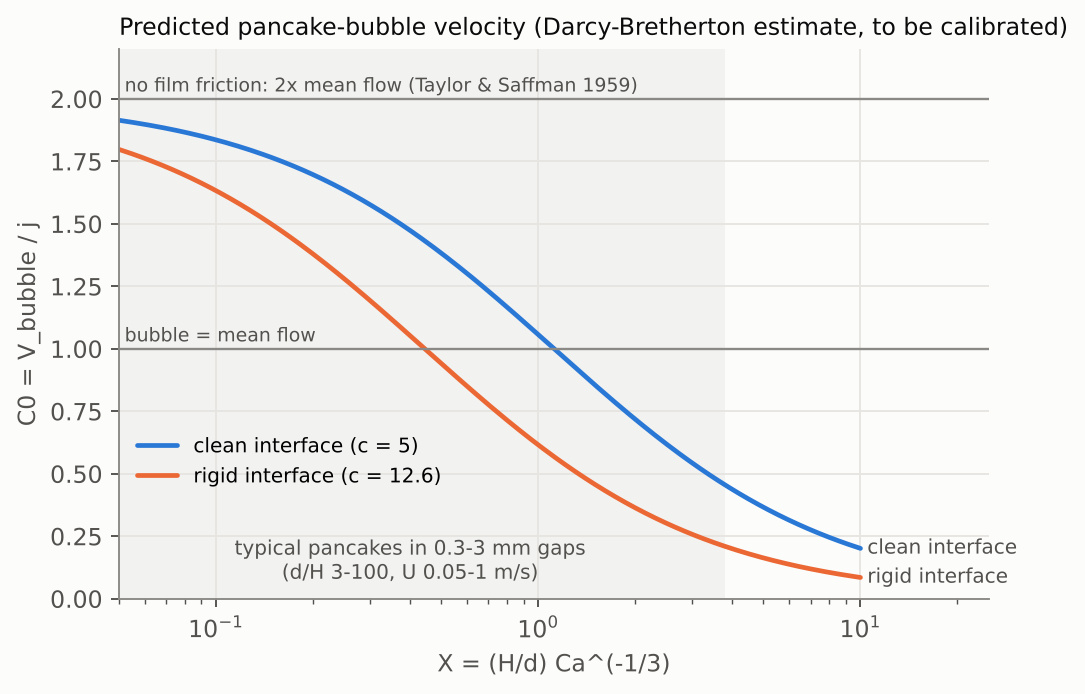
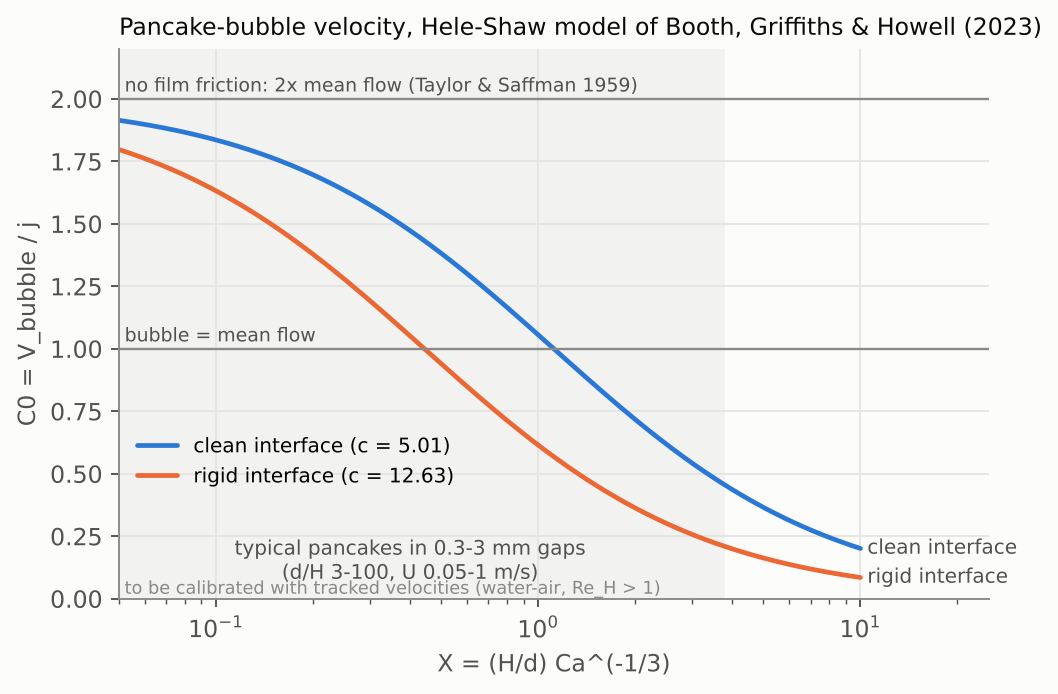
docs: 크기 추정 5.3 숫자 갱신, C0 그림에 식 출처(Booth 2023)와 확인된 계수 표기
Claude-Session: https://claude.ai/code/session_01QFVWo3BPZ98Eh7jXYmYxkN

diff --git a/docs/research/fig/src/figs.py b/docs/research/fig/src/figs.py
@@ -56,7 +56,7 @@ X=np.logspace(np.log10(0.05),np.log10(10),300)
 fig,ax=plt.subplots(figsize=(6.6,4.2))
 ax.axvspan(0.04,3.8,color="#000000",alpha=0.04,lw=0)
 ax.text(0.40,0.08,"typical pancakes in 0.3-3 mm gaps\n(d/H 3-100, U 0.05-1 m/s)",fontsize=8.5,color=INK2,ha="center")
-for c,col,lab in ((5.0,S1,"clean interface (c = 5)"),(12.6,S2,"rigid interface (c = 12.6)")):
+for c,col,lab in ((5.01,S1,"clean interface (c = 5.01)"),(12.63,S2,"rigid interface (c = 12.63)")):
     y=2/(1+0.1785*c*X)
     ax.plot(X,y,color=col,lw=2,label=lab,solid_capstyle="round")
     ax.text(X[-1]*1.05,y[-1],lab.split(" (")[0],fontsize=8.5,color=INK2,va="center")
@@ -64,7 +64,8 @@ ax.axhline(2,color=MUTED,lw=1); ax.text(0.052,2.03,"no film friction: 2x mean fl
 ax.axhline(1,color=MUTED,lw=1); ax.text(0.052,1.03,"bubble = mean flow",fontsize=8,color=INK2)
 ax.set_xscale("log"); ax.set_xlim(0.05,25); ax.set_ylim(0,2.2)
 ax.set_xlabel("X = (H/d) Ca^(-1/3)"); ax.set_ylabel("C0 = V_bubble / j")
-ax.set_title("Predicted pancake-bubble velocity (Darcy-Bretherton estimate, to be calibrated)",fontsize=10,color=INK,loc="left")
+ax.set_title("Pancake-bubble velocity, Hele-Shaw model of Booth, Griffiths & Howell (2023)",fontsize=10,color=INK,loc="left")
+ax.text(0.052,0.02,"to be calibrated with tracked velocities (water-air, Re_H > 1)",fontsize=7.5,color=MUTED)
 ax.legend(frameon=False,fontsize=8.5,loc="lower left",bbox_to_anchor=(0.0,0.17))
 fig.savefig(OUT+"fig_r2_c0_model.png",dpi=170,bbox_inches="tight"); plt.close(fig)
 
